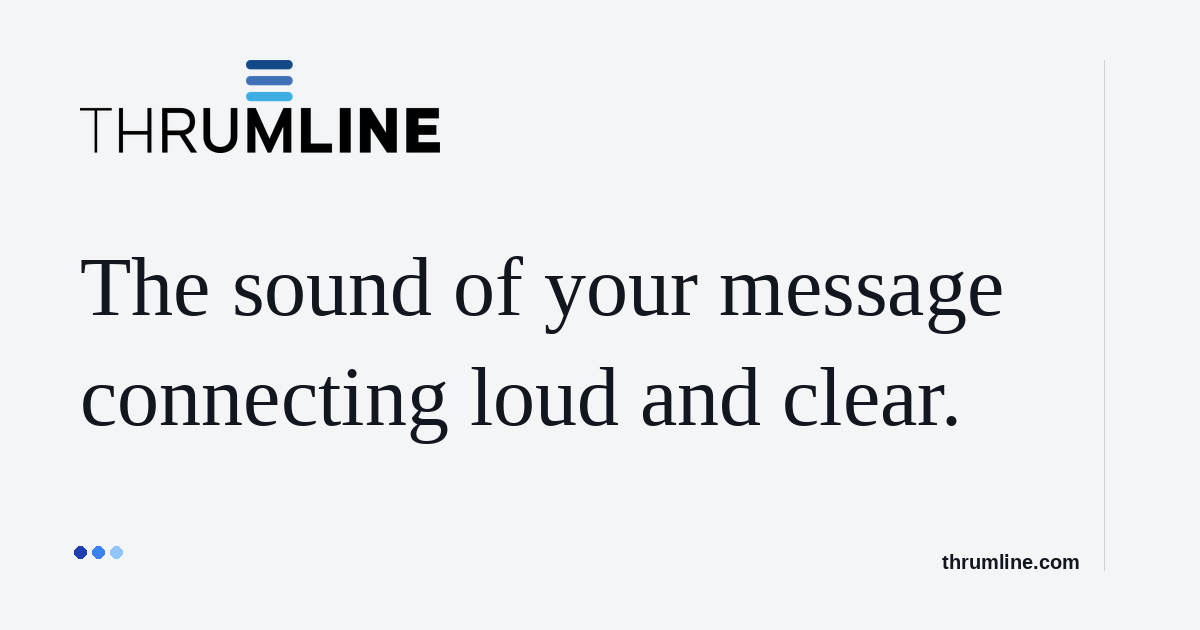
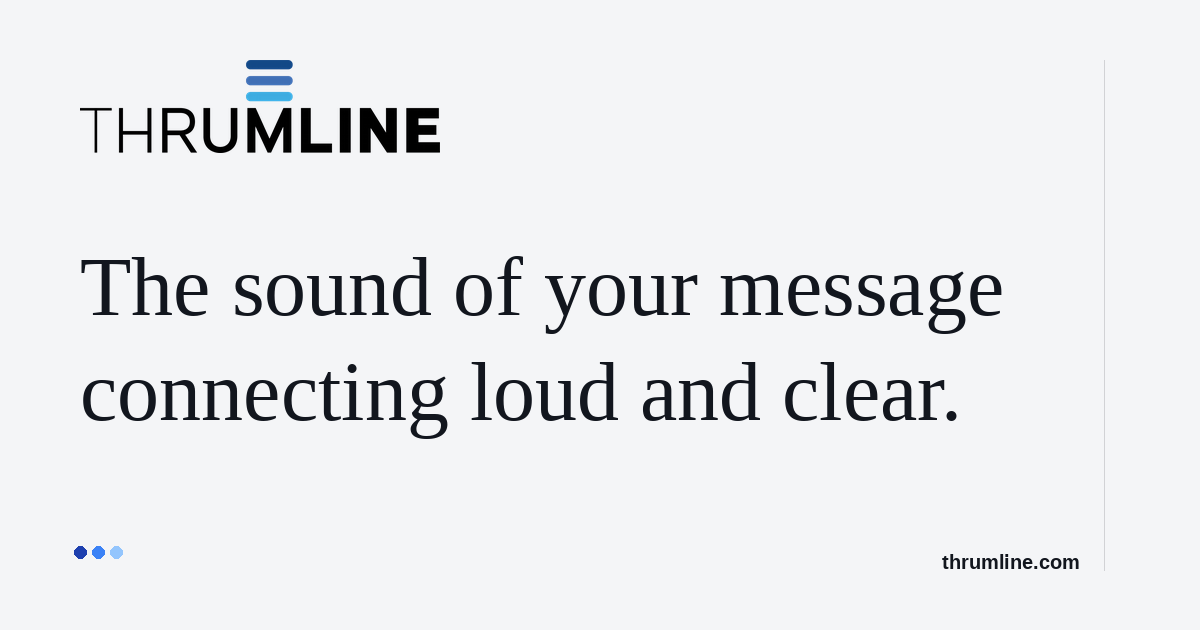
auto-commit for 62ea258b-2ff9-4bc1-88bd-e5e0f913bccb

Changed region(s): [[0.0617, 0.573, 0.8017, 0.7238], [0.6783, 0.573, 0.7092, 0.6032], [0.6167, 0.573, 0.6475, 0.6032]]

diff --git a/frontend/src/lib/seo.js b/frontend/src/lib/seo.js
@@ -38,7 +38,7 @@ function setJsonLd(id, obj) {
     document.head.appendChild(s);
 }
 
-export function useSeo({ title, description, path, jsonLd }) {
+export function useSeo({ title, description, path, jsonLd, ogImage }) {
     useEffect(() => {
         if (title) document.title = title;
         upsertMeta('meta[name="description"]', "name", "description", description);
@@ -46,10 +46,17 @@ export function useSeo({ title, description, path, jsonLd }) {
         upsertMeta('meta[property="og:description"]', "property", "og:description", description);
         const url = `https://thrumline.com${path || ""}`;
         upsertMeta('meta[property="og:url"]', "property", "og:url", url);
+        // Per-route OG image. Falls back to /og-default.png (baked into
+        // index.html) when the page does not pass an override.
+        if (ogImage) {
+            const absOg = ogImage.startsWith("http") ? ogImage : `https://thrumline.com${ogImage}`;
+            upsertMeta('meta[property="og:image"]', "property", "og:image", absOg);
+            upsertMeta('meta[name="twitter:image"]', "name", "twitter:image", absOg);
+        }
         upsertLink("canonical", url);
         if (jsonLd) setJsonLd(path || "page", jsonLd);
         return () => {
             if (jsonLd) setJsonLd(path || "page", null);
         };
-    }, [title, description, path, jsonLd]);
+    }, [title, description, path, jsonLd, ogImage]);
 }

diff --git a/frontend/src/pages/Fit.jsx b/frontend/src/pages/Fit.jsx
@@ -12,6 +12,7 @@ export default function Fit() {
         title: "Fit | Thrumline",
         description: "Not a sales call. A short conversation to find out whether we are the right people for your marketing, both ways.",
         path: "/fit",
+        ogImage: "/og-fit.png",
     });
 
     const [form, setForm] = useState({ name: "", business: "", email: "", prompt: "" });

diff --git a/frontend/src/pages/Home.jsx b/frontend/src/pages/Home.jsx
@@ -11,6 +11,7 @@ export default function Home() {
         title: "Thrumline | Marketing Execution and Momentum",
         description: "Marketing execution and momentum for businesses that are done being oversold. Websites, campaigns, and the steady upkeep that keeps it working.",
         path: "/",
+        ogImage: "/og-default.png",
     });
 
     return (

diff --git a/frontend/src/pages/HowItWorks.jsx b/frontend/src/pages/HowItWorks.jsx
@@ -40,6 +40,7 @@ export default function HowItWorks() {
         title: "How We Work | Thrumline",
         description: "We understand your business before we build anything. We find what is true, figure out what you need, and if you do not need us, we will tell you.",
         path: "/how-we-work",
+        ogImage: "/og-how-we-work.png",
     });
 
     return (

diff --git a/frontend/src/pages/Signals.jsx b/frontend/src/pages/Signals.jsx
@@ -11,6 +11,7 @@ export default function Signals() {
         description: "Straight answers to the questions business owners actually ask about marketing and the agencies they hire. One question, one or two sentences.",
         path: "/signals",
         jsonLd: signalsFaqSchema(SIGNALS),
+        ogImage: "/og-signals.png",
     });
 
     return (

diff --git a/frontend/src/pages/WhatWeDo.jsx b/frontend/src/pages/WhatWeDo.jsx
@@ -52,6 +52,7 @@ export default function WhatWeDo() {
         title: "What We Do | Thrumline",
         description: "Websites, ongoing care, social media, paid advertising, and visual work. Senior hands on the work, and a monthly bill you can actually read.",
         path: "/what-we-do",
+        ogImage: "/og-what-we-do.png",
     });
 
     return (